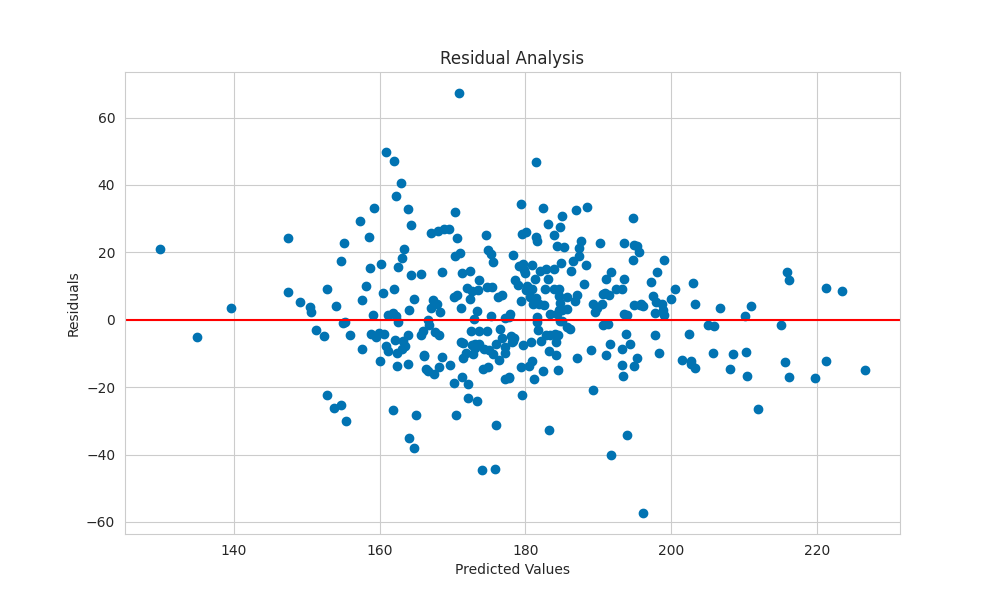
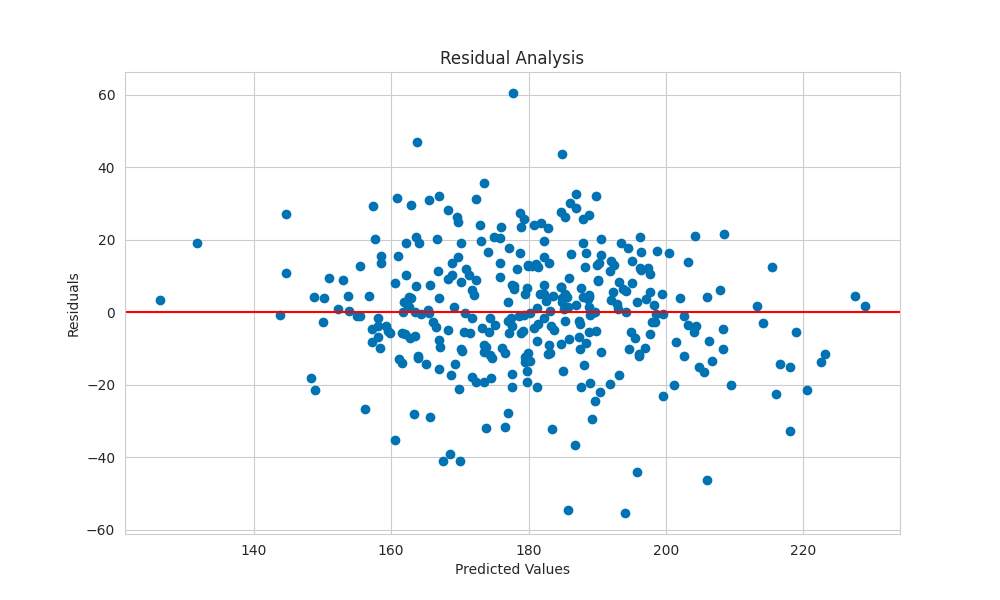
best performance

diff --git a/main.py b/main.py
@@ -19,7 +19,7 @@ import os
 
 os.makedirs("figure", exist_ok=True)
 
-def remove_outliers(df, columns, threshold=2.5):
+def remove_outliers(df, columns, threshold=1.5):
     df_clean = df.copy()
     outliers_removed = 0
     
